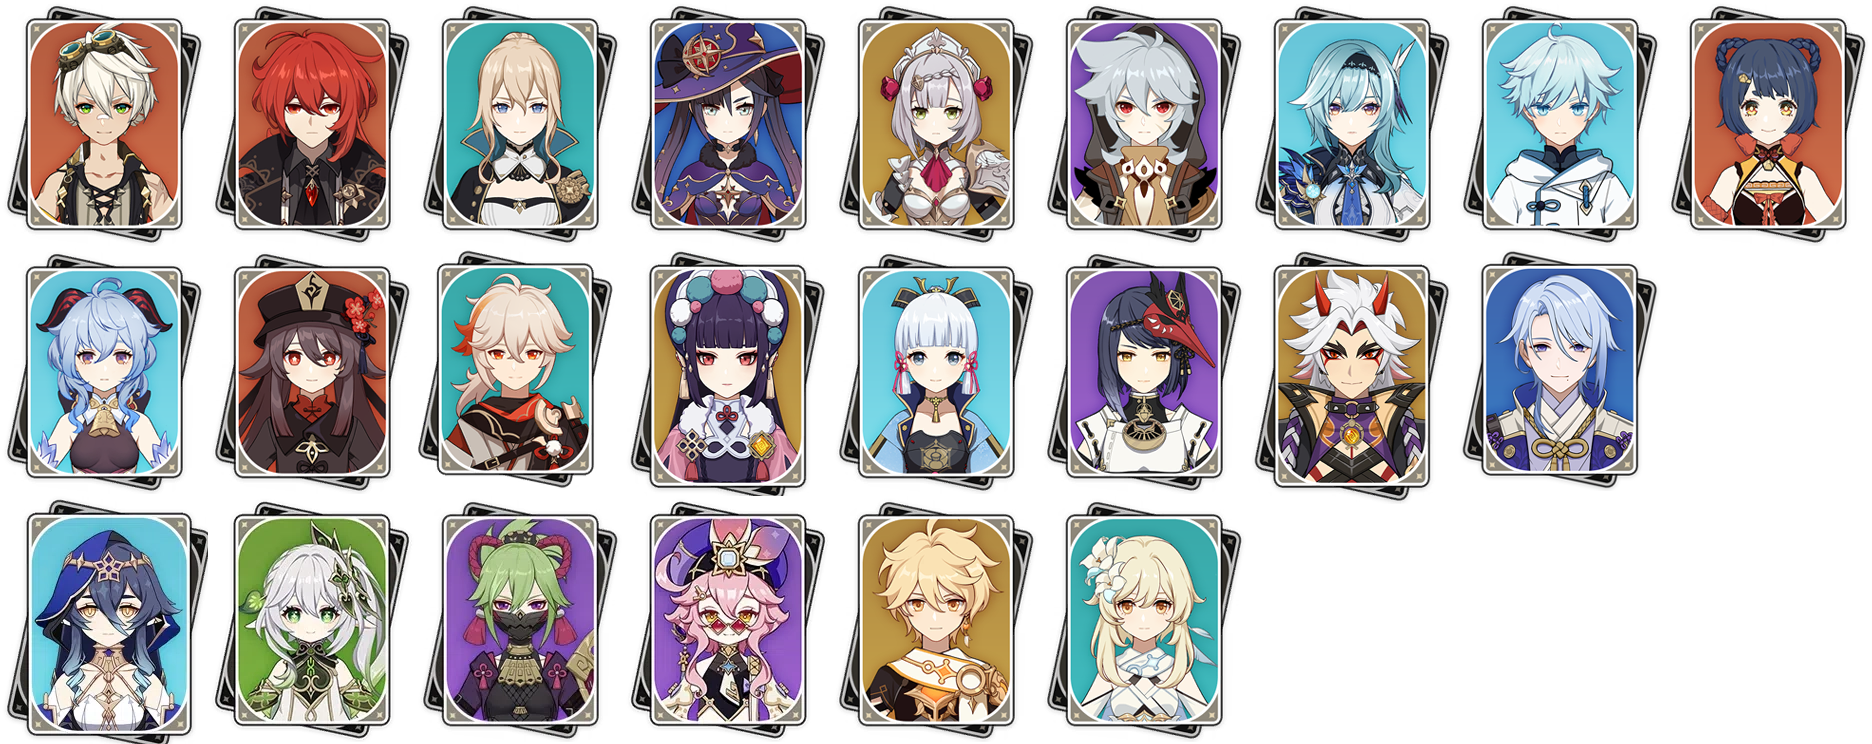
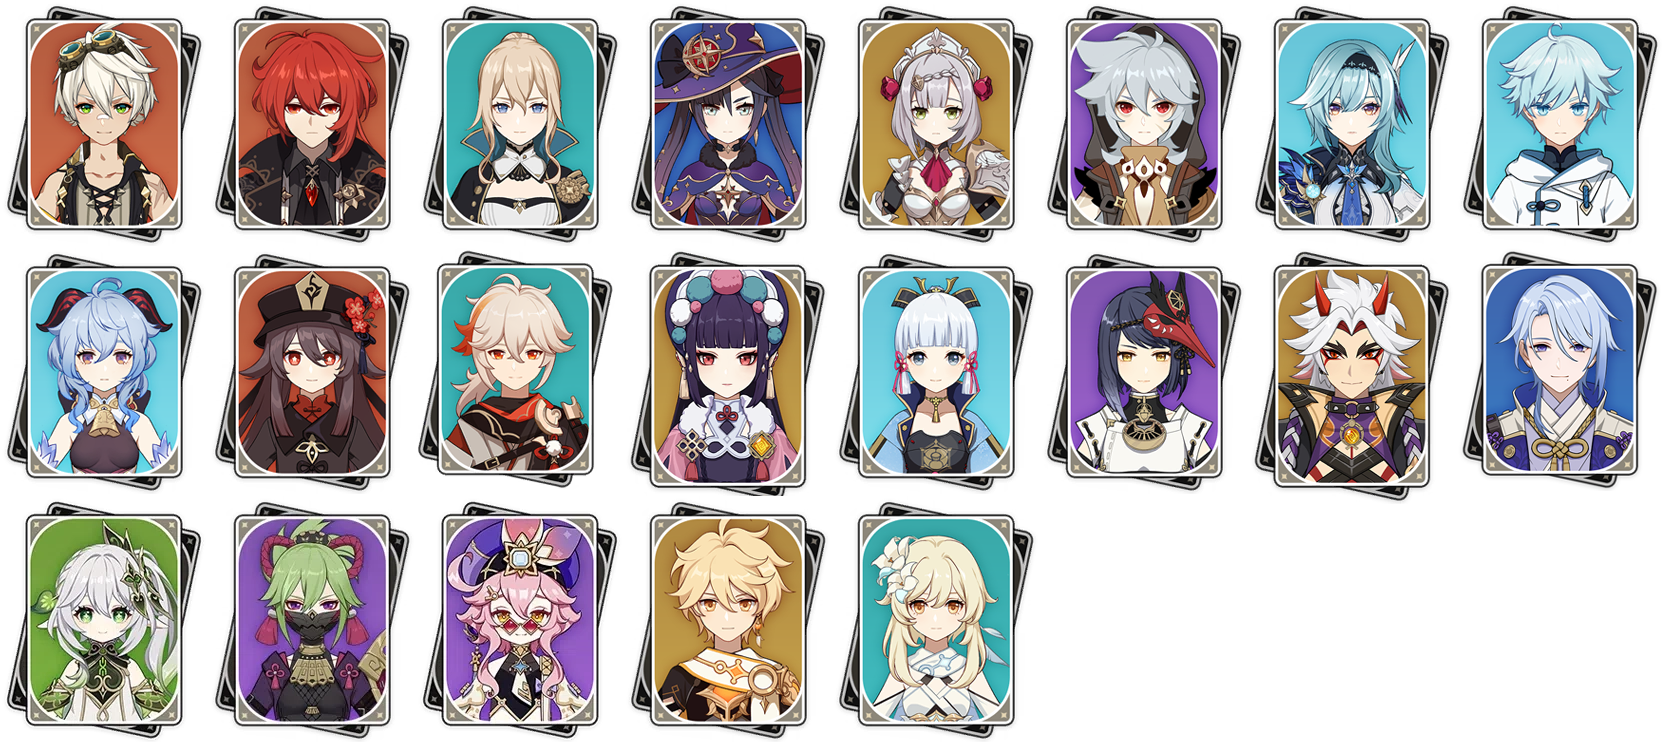
Corrigé un bug d'affichage des colonnes

diff --git a/utils/classes/imagemaker.py b/utils/classes/imagemaker.py
@@ -1,4 +1,4 @@
-from PIL import Image, ImageDraw
+from PIL import Image
 
 
 class ImageMaker:
@@ -18,13 +18,13 @@ class ImageMaker:
         return res
 
     def __calculate_height(self) -> int:
-        return (int(len(self.liste_persos) / self.MAX_COLUMNS) + 1) * self.card_img_list[0].size[1]
+        return (int(len(self.liste_persos) / self.MAX_COLUMNS + 1)) * self.card_img_list[0].size[1]
 
     def __calculate_width(self) -> int:
         res = 0
         pic_counter = 0
         for pic in self.card_img_list:
-            if pic_counter > self.MAX_COLUMNS:
+            if pic_counter > self.MAX_COLUMNS - 1:
                 break
             res += pic.size[0]
             pic_counter += 1
@@ -43,7 +43,7 @@ class ImageMaker:
             if pic_counter >= self.MAX_COLUMNS:
                 pos_y += self.card_img_list[0].size[1]
                 pos_x = 0
-                pic_counter = 0
+                pic_counter = -1
             pic_counter += 1
 
         self.image.save(self.IMAGE_NAME, quality=100)
